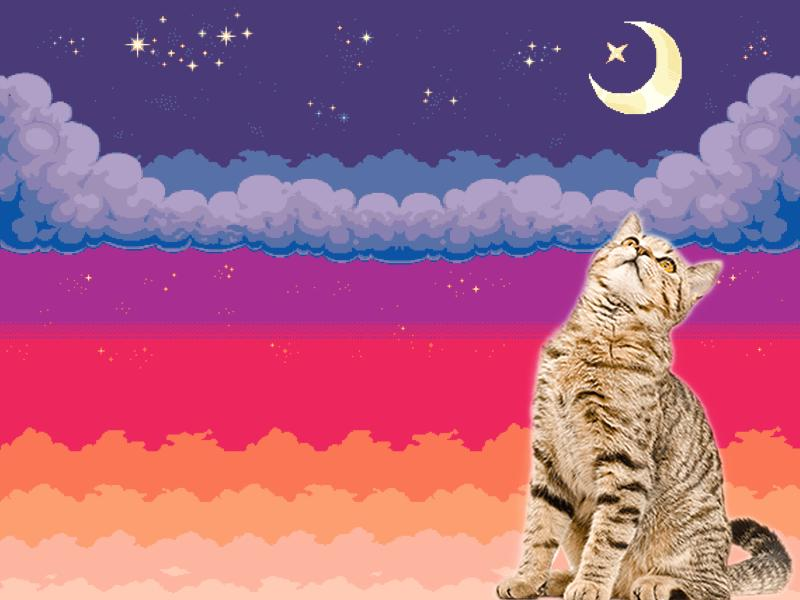
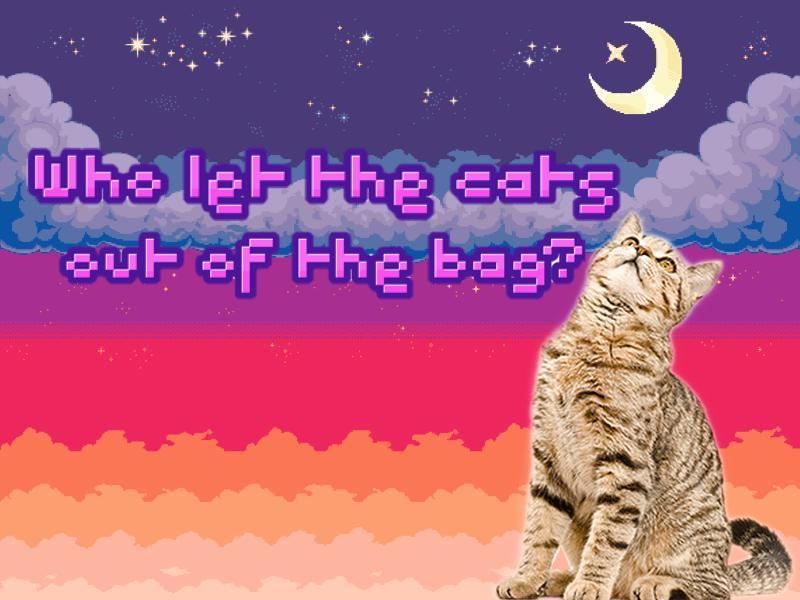
HW2

Changed region(s): [[0.0312, 0.24, 0.7812, 0.51]]

diff --git a/HW2/js/Game.js b/HW2/js/Game.js
@@ -5,7 +5,50 @@ GameStates.makeGame = function( game, shared ) {
     var bouncy = null;
     var Cat;
     var cats;
+    var cat;
+    game.score = 0;
+    var timer;
+    var total = 5;
+    var timerText;
+    var score = game.score;
+    var scoreText;
+    var meow1 = null;
+    var meow2 = null;
+
     
+    function killCat(cat, pointer) {
+
+
+       cats.remove(cat);
+       game.score += 1;
+       scoreText = scoreText.setText("Cats Caught: " + game.score);
+        meow1.play();
+
+       console.log("KILLED " + game.score);
+
+    }
+
+    function updateCounter() {
+
+        total--;
+        timerText = timerText.setText("Time Left: " + total);
+        if(total == 0){
+            //GAME OVER SCREEN
+            console.log("GAME OVER");
+            total = 30;
+            game.state.start('EndGame', game.score);
+        }
+        console.log(total);
+
+    
+    }
+    
+    function render() {
+
+        game.debug.text('Time until event: ' + (timer.duration.toFixed(0)), 32, 32);
+        game.debug.text('Loop Count: ' + total, 32, 64);
+    
+    }
     /*function quitGame() {
 
         //  Here you should destroy anything you no longer need.
@@ -18,8 +61,8 @@ GameStates.makeGame = function( game, shared ) {
 
     function Cat(game) {
 
-        var x = game.rnd.between(100, 770);
-        var y = game.rnd.between(0, 570);
+        var x = game.rnd.between(0, 800);
+        var y = game.rnd.between(0, 600);
     
         Phaser.Sprite.call(this, game, x, y, 'cat', 17);
     
@@ -29,7 +72,8 @@ GameStates.makeGame = function( game, shared ) {
     
     Cat.prototype = Object.create(Phaser.Sprite.prototype);
     Cat.prototype.constructor = Cat;
-    
+
+
     return {
     
         create: function () {
@@ -37,14 +81,46 @@ GameStates.makeGame = function( game, shared ) {
             //  Honestly, just about anything could go here. It's YOUR game after all. Eat your heart out!
             
             // Create a sprite at the center of the screen using the 'logo' image.
+            game.stage.backgroundColor = '#000';
+            meow1 = game.add.audio('kittenmeow');
+            meow2 = game.add.audio('catmeow');
             //bouncy = game.add.sprite( game.world.centerX, game.world.centerY, 'cat' );
             cats = game.add.group();
             for (var i = 0; i < 100; i++)
             {
-                cats.add(new Cat(game));
+                cat = cats.create(game.world.randomX, game.world.randomY, 'cat');
+                cat.name = 'cat' + i;
+
+                cat.inputEnabled = true;
+
+                cat.events.onInputDown.add(killCat, this);
                 //game.starsleft += 1;
                 //console.log("H" + game.starsleft);
             }
+
+                //  Create our Timer
+            timer = game.time.create(false);
+
+            //  Set a TimerEvent to occur after 2 seconds
+            timer.loop(1000, updateCounter, this);
+            var style = { font: "25px Verdana", fill: "#cc0000", align: "center" };
+            timerText = game.add.text(game.world.centerX, 10, "Time Left: 30", style );
+            timerText.anchor.setTo( 0.5, 0.0 );
+            scoreText = game.add.text(10, 10, "Cats Caught: 0", style );
+
+            //  Start the timer running - this is important!
+            //  It won't start automatically, allowing you to hook it to button events and the like.
+            timer.start();
+            /*for (var i = 0; i < 20; i++)
+            {
+                var tempSprite = game.add.sprite(game.world.randomX, game.world.randomY, 'cat');
+                tempSprite.inputEnabled = true;
+                //tempSprite.input.enableDrag(false, true);
+                //tempSprite.events.onInputDown.add(function(s){console.log('clicked',s.name,s.renderOrderID)});
+                tempSprite.events.onInputDown.add(killCat, this);
+            }*?
+
+
             // Anchor the sprite at its center, as opposed to its top-left corner.
             // so it will be truly centered.
             //bouncy.anchor.setTo( 0.5, 0.5 );
@@ -60,6 +136,9 @@ GameStates.makeGame = function( game, shared ) {
             var text = game.add.text( game.world.centerX, 15, "Meow.", style );
             text.anchor.setTo( 0.5, 0.0 );
             
+            /*cats.inputEnableChildren = true;
+            cats.onChildInputDown.add(killCat, this);*/
+            //cat.events.onInputDown.add( function() { killCat(cat); }, this );
             // When you click on the sprite, you go back to the MainMenu.
             //bouncy.inputEnabled = true;
             //bouncy.events.onInputDown.add( function() { quitGame(); }, this );

diff --git a/HW2/index.html b/HW2/index.html
@@ -9,6 +9,7 @@
 	<script src="js/Boot.js"></script>
 	<script src="js/Preloader.js"></script>
 	<script src="js/MainMenu.js"></script>
+	<script src="js/EndGame.js"></script>
 	<script src="js/Game.js"></script>
 	<!-- main.js must come last since it references the other ones. -->
 	<script src="js/main.js"></script>
@@ -64,45 +65,42 @@ Which other game most closely resembles your game? If you are borrowing code fro
 </li>
 
 <li><strong>High Concept:</strong>
-A one-sentence summary of your game.
+The cats have been unleashed! Try to catch as many cats as possible to get as many points as possible.
 </li>
 
 <li><strong>Theme:</strong>
-State which of the Storymatic themes you used.
+Person with lots and lots of cats
 </li>
 
 <li><strong>Mandated Variety:</strong>
-State which input, randomness, genre, and play style you used in this prototype.
+Input: Mouse. Randomness: A lot. Play Styles: Collector. Genre: Overhead
 </li>
 
 <li><strong>Prototype Goal:</strong>
-What game mechanic is this prototype evaluating?
+This prototype is evaluating the group removal via touch/click, score tracker mechanic for catching cats.
 </li>
 
 <li><strong>Player Experience Goals:</strong>
-What experience do you want players to have when playing your game?
+We want the players to first be surprised with the visuals and then experience the suspense that comes with the realization that they only have a limited time to catch as many cats as possible.
 </li>
 
 <li><strong>Gameplay:</strong>
-A paragraph describing the actions the player can perform, the system dynamics, and the core mechanic. Include a concise explanation of the prototype’s inputs and their expected effects (how to play). You can also describe game play that is not in the prototype. You may include mock-up images for parts of the game not in the prototype.
+The goal of the game is to catch as many cats as possible. There’s a random number of cats as well as their position. There is enough so the player won’t run out. You play my clicking on the cats to catch them. You want to catch as many as possible as that is your score which you’re trying to get as high as possible. 
 </li>
 
 <li><strong>Strategies:</strong>
-What player strategies do you expect will be effective at playing this game?
+Try to to click as many Kittens as possible. This may be made easier when using a mobile device/touch screen or a mouse rather than a trackpad.
 </li>
 
 <li><strong>Story/Setting/Premise:</strong>
-A paragraph about the world your game is set in and who the characters are. What makes the game world and its occupants unique and interesting? Do the tokens represent something? If the game has a backstory, mention it here. If the game is abstract, then say so.
-How will the dramatic tension interact with the gameplay tension?
+Oh no! Somebody let the cats out of the bag! Quick, we have to catch the cats and bring them back before the sun sets and they are lost in the darkness. The setting is that the cats have been let out of their bag and immediately ran out into what looks like a stampeed of cats in the open field. It’s almost night and you want to bring as many in before the sun sets and they're lost for the night. There’s only so much time you have before the sun sets so catch them quickly. Hopefully you don’t leave to many cats out in the wilderness. 
 </li>
 
 <li><strong>Target Audience:</strong>
-A single sentence that describes the demographic you're trying to reach.
-</li>
+All ages, although the game may be more popular with children. Anyone who enjoys cute cats.</li>
 
 <li><strong>Play Time:</strong>
-How long does your game take to play?
-</li>
+The game has a 30 second timer, so the game itself takes about 30 seconds to play. You can play again/retry thus adding another 30 seconds.</li>
 
 </ul>
 </div>

diff --git a/HW2/js/EndGame.js b/HW2/js/EndGame.js
@@ -1,0 +1,48 @@
+"use strict";
+
+GameStates.makeWinState = function( game, shared ) {
+
+	var music = null;
+    var playButton = null;
+    var endText;
+    
+    function startGame(pointer) {
+
+        //	Ok, the Play Button has been clicked or touched, so let's stop the music (otherwise it'll carry on playing)
+        music.stop();
+
+        //	And start the actual game
+        game.score = 0;
+        game.state.start('Game');
+        
+
+    }
+    
+    return {
+    
+        create: function () {
+    
+            //	We've already preloaded our assets, so let's kick right into the Main Menu itself.
+            //	Here all we're doing is playing some music and adding a picture and button
+            //	Naturally I expect you to do something significantly better :)
+    
+            music = game.add.audio('titleMusic');
+            //music.play();
+    
+            game.add.sprite(0, 0, 'endPage');
+            var style = { font: "25px Verdana", fill: "#ffffff", align: "center" };
+            endText = game.add.text(game.world.centerX, game.world.centerY, "Score: " + game.score, style );
+            endText.anchor.setTo( 0.5, 0.0 );
+    
+            playButton = game.add.button( 303, 400, 'button_retry', startGame, null, 'button_retry', 'button_retry', 'button_retry');
+    
+        },
+    
+        update: function () {
+    
+            //	Do some nice funky main menu effect here
+    
+        }
+        
+    };
+};

diff --git a/HW2/js/Preloader.js b/HW2/js/Preloader.js
@@ -24,9 +24,19 @@ GameStates.makePreloader = function( game ) {
             //	Here we load the rest of the assets our game needs.
             //	As this is just a Project Template I've not provided these assets, swap them for your own.
             game.load.image('titlePage', 'assets/title.jpg');
+            game.load.image('endPage', 'assets/endgamebg.jpg');
             game.load.image('cat', 'assets/phaser.png');
+            game.load.image('button_play', 'assets/button_play.png');
+            game.load.image('button_retry', 'assets/button_retry.png');
+
+            game.load.image('cat', 'assets/phaser.png');
+
             game.load.atlas('playButton', 'assets/play_button.png', 'assets/play_button.json');
             game.load.audio('titleMusic', ['assets/Poppers and Prosecco.mp3']);
+            game.load.audio('catmeow', ['assets/meowregular1.mp3']);
+            game.load.audio('kittenmeow', ['assets/kittenmeow1.mp3']);
+
+
             //	+ lots of other required assets here
             game.load.image( 'logo', 'assets/phaser.png' );
         },

diff --git a/HW2/js/main.js b/HW2/js/main.js
@@ -16,6 +16,7 @@ window.onload = function() {
 	game.state.add( 'Boot', GameStates.makeBoot( game ) );
 	game.state.add( 'Preloader', GameStates.makePreloader( game ) );
 	game.state.add( 'MainMenu', GameStates.makeMainMenu( game, shared ) );
+	game.state.add( 'EndGame', GameStates.makeWinState( game, shared ) );
 	game.state.add( 'Game', GameStates.makeGame( game, shared ) );
 
 	//	Now start the Boot state.

diff --git a/HW2/js/Boot.js b/HW2/js/Boot.js
@@ -41,6 +41,7 @@ GameStates.makeBoot = function( game ) {
     
             //  By this point the preloader assets have loaded to the cache, we've set the game settings
             //  So now let's start the real preloader going
+            var score = 0;
             game.state.start('Preloader');
     
         }
